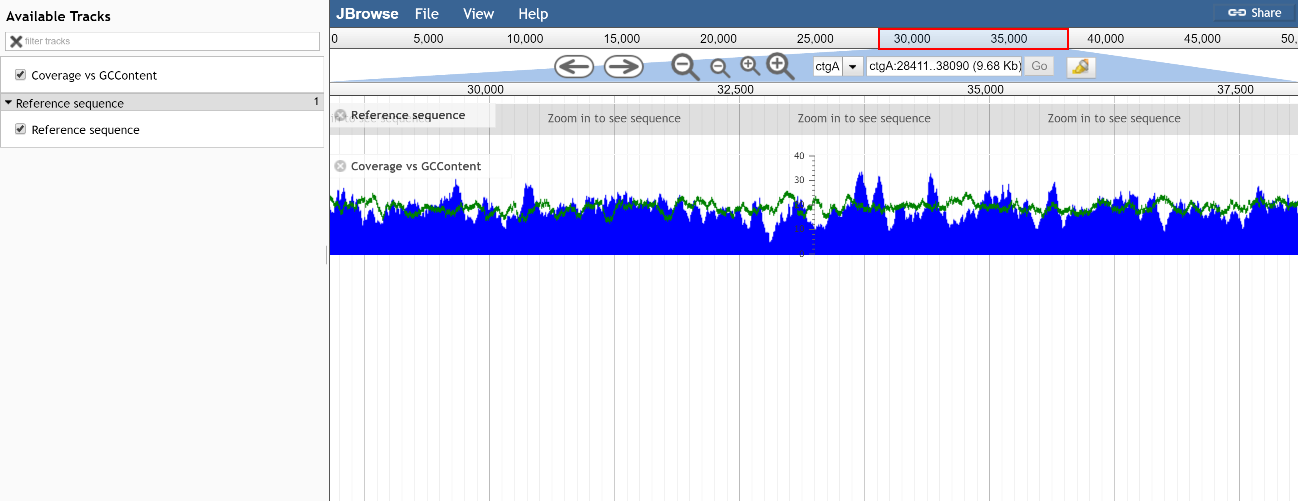
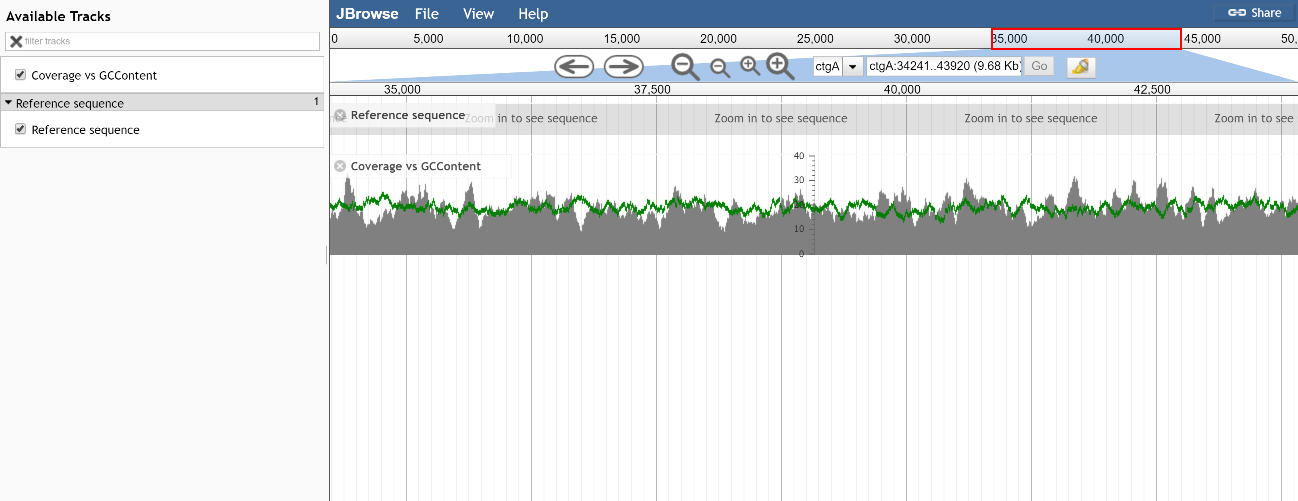
Use grey by default for color

diff --git a/js/View/Track/GCCoverage.js b/js/View/Track/GCCoverage.js
@@ -51,7 +51,8 @@ function (
                     windowSize: 100,
                     windowDelta: 10,
                     style: {
-                        gc_color: 'green'
+                        gc_color: 'green',
+                        pos_color: 'grey'
                     }
                 }
             );
